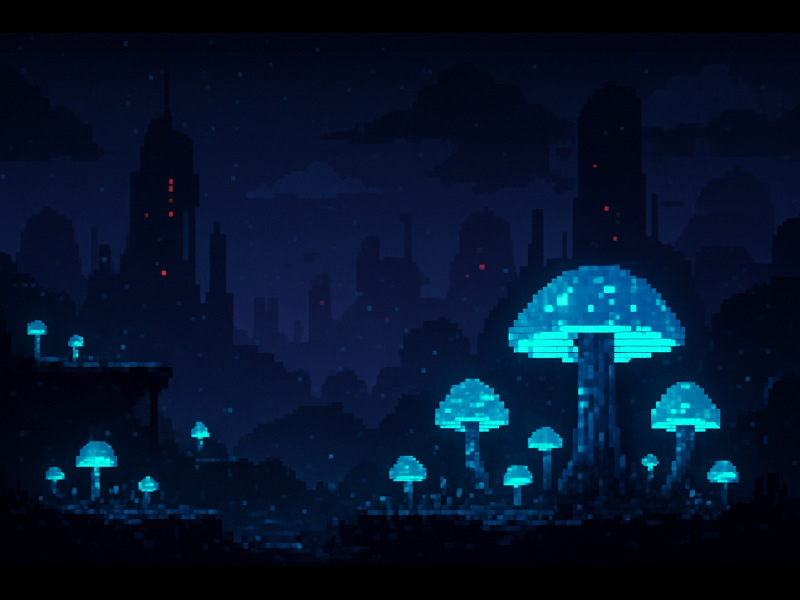
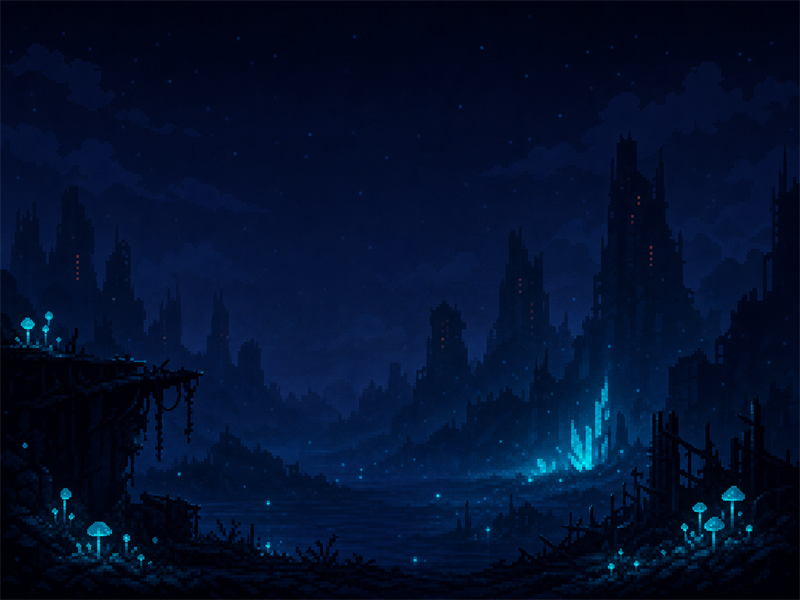
Update gfx

diff --git a/src/portal.cpp b/src/portal.cpp
@@ -11,16 +11,27 @@
 #include "src/runtime_ctx.h"
 
 #include <cstdint>
+#include <vector>
 
 using namespace rinvid;
 
 constexpr int32_t PORTAL_WIDTH = 150;
 constexpr int32_t PORTAL_HEIGHT = 153;
+constexpr std::uint32_t PORTAL_FRAME_COUNT = 17U;
+constexpr double PORTAL_ACTIVE_FRAMERATE = 24.0;
 
 Portal::Portal(Vector2f position, LevelFactory level_factory)
     : tex_{"resources/gfx/portal_small.png"}, level_factory_{level_factory}
 {
     setup(&tex_, PORTAL_WIDTH, PORTAL_HEIGHT, position);
+
+    auto portal_frames = get_animation().split_animation_frames(PORTAL_WIDTH, PORTAL_HEIGHT,
+                                                                PORTAL_FRAME_COUNT, 1U);
+    std::vector<Rect> active_frames{portal_frames.begin() + 1, portal_frames.end()};
+    get_animation().add_animation("active", Animation{PORTAL_ACTIVE_FRAMERATE, active_frames,
+                                                      AnimationMode::Looping});
+    get_animation().play("active");
+
     gravity_scale_ = 0.0F;
     movable_ = false;
 }

diff --git a/src/levels/gym.cpp b/src/levels/gym.cpp
@@ -90,7 +90,7 @@ void GymScreen::draw_level(double delta_time)
 {
     background_sprite_.draw();
     player_.draw(delta_time);
-    portal_.draw();
+    portal_.draw(delta_time);
     plat_.draw();
     RuntimeCtx::com_box()->draw();
 }

diff --git a/src/levels/level_1.cpp b/src/levels/level_1.cpp
@@ -56,7 +56,7 @@ void Level_1::draw_level(double delta_time)
     player_.draw(delta_time);
     floor_.draw();
     box_.draw();
-    portal_.draw();
+    portal_.draw(delta_time);
     RuntimeCtx::com_box()->draw();
 }
 

diff --git a/src/levels/level_2.cpp b/src/levels/level_2.cpp
@@ -55,7 +55,7 @@ void Level_2::draw_level(double delta_time)
     player_.draw(delta_time);
     floor_.draw();
     box_.draw();
-    portal_.draw();
+    portal_.draw(delta_time);
     RuntimeCtx::com_box()->draw();
 }
 

diff --git a/src/levels/level_3.cpp b/src/levels/level_3.cpp
@@ -55,7 +55,7 @@ void Level_3::draw_level(double delta_time)
     player_.draw(delta_time);
     floor_.draw();
     box_.draw();
-    portal_.draw();
+    portal_.draw(delta_time);
     RuntimeCtx::com_box()->draw();
 }
 

diff --git a/src/levels/level_4.cpp b/src/levels/level_4.cpp
@@ -55,7 +55,7 @@ void Level_4::draw_level(double delta_time)
     player_.draw(delta_time);
     floor_.draw();
     box_.draw();
-    portal_.draw();
+    portal_.draw(delta_time);
     RuntimeCtx::com_box()->draw();
 }
 

diff --git a/src/levels/level_5.cpp b/src/levels/level_5.cpp
@@ -55,7 +55,7 @@ void Level_5::draw_level(double delta_time)
     player_.draw(delta_time);
     floor_.draw();
     box_.draw();
-    portal_.draw();
+    portal_.draw(delta_time);
     RuntimeCtx::com_box()->draw();
 }
 